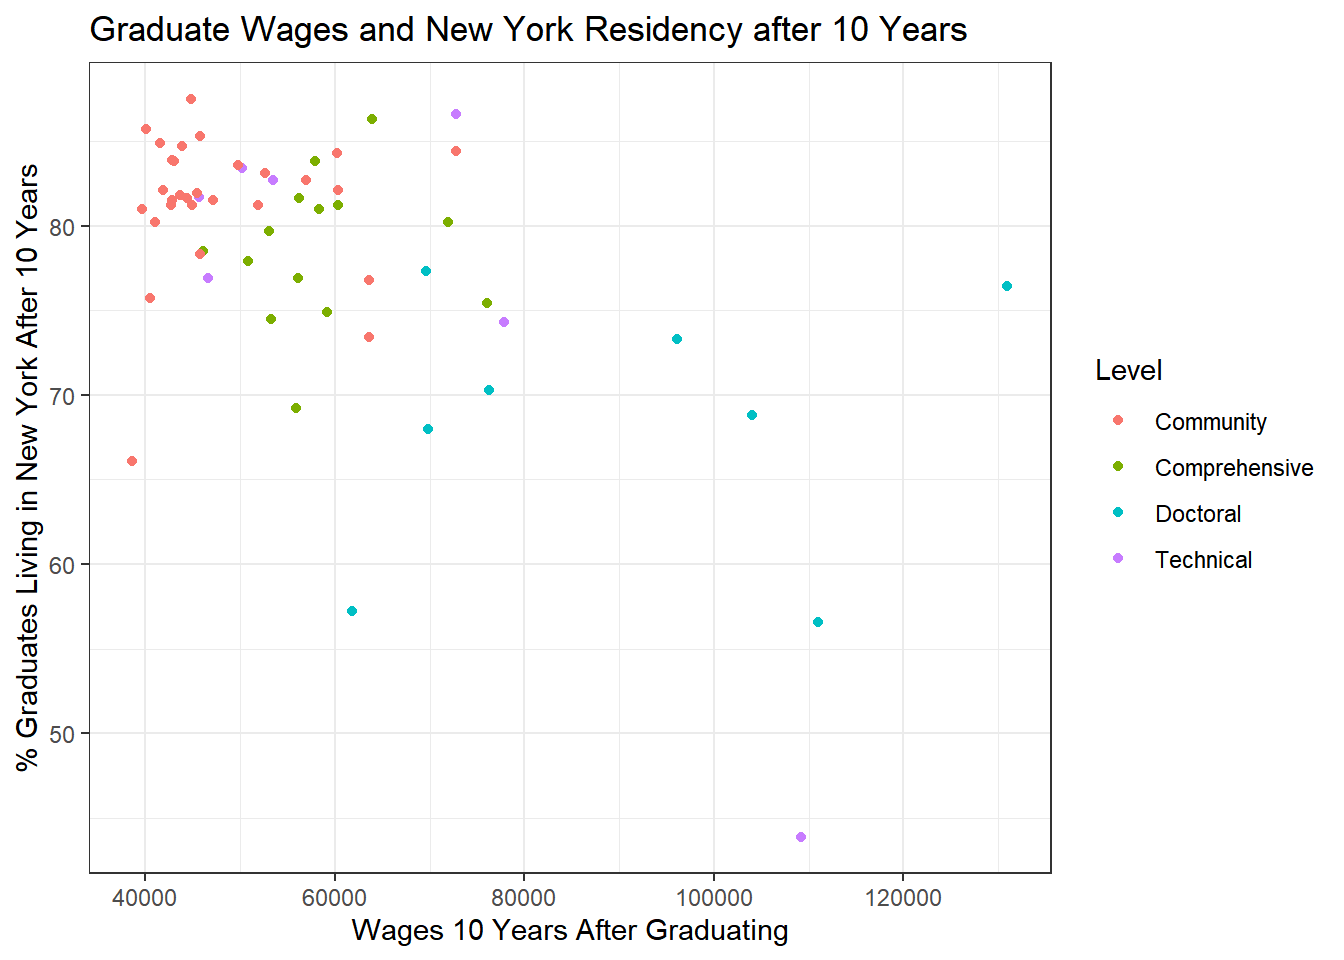
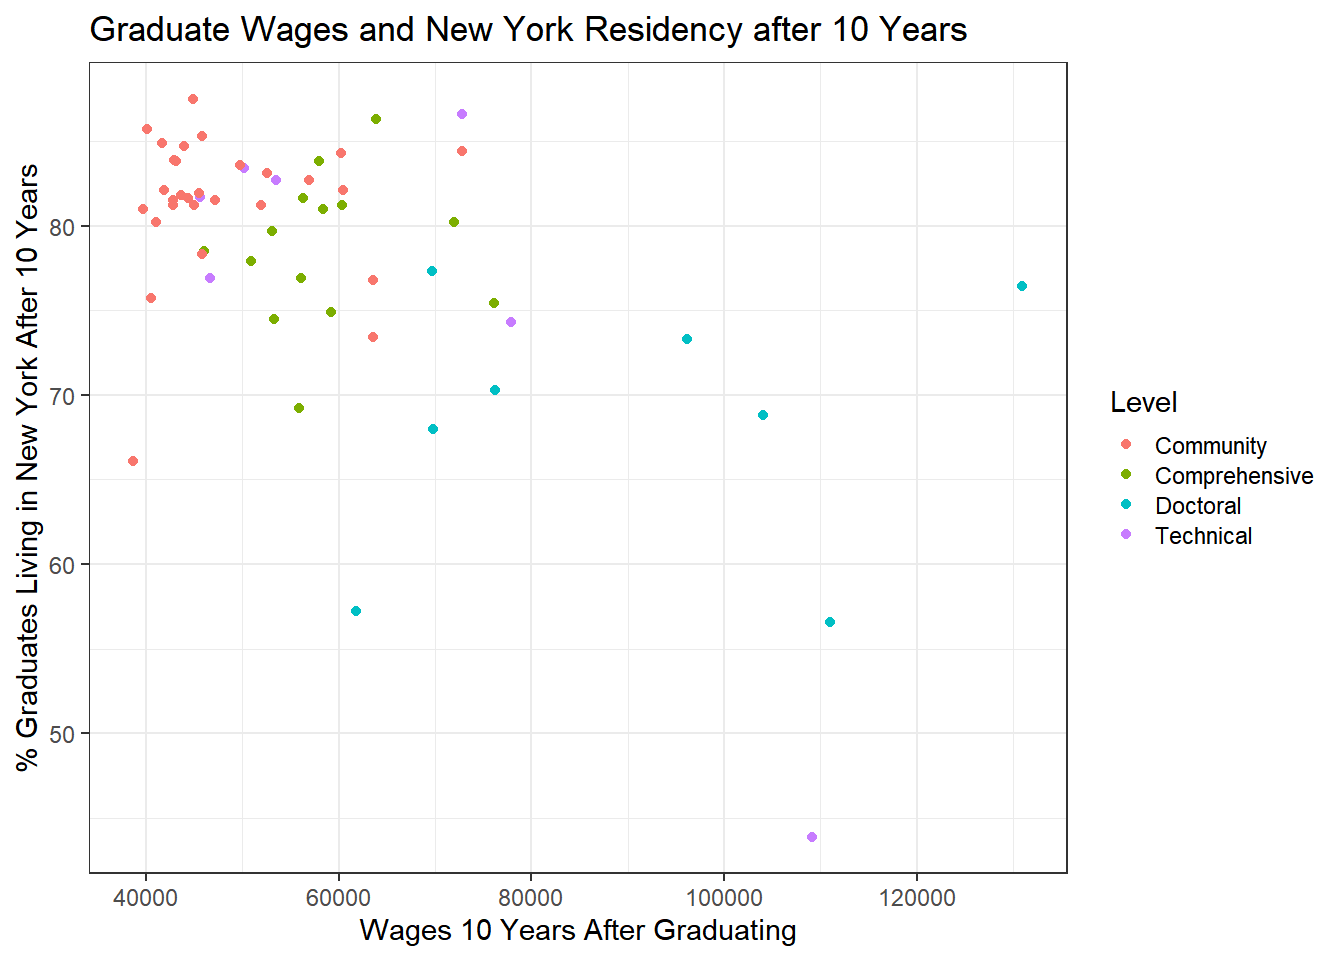
12:30pm on 12/5/19

diff --git a/docs/index.html b/docs/index.html
@@ -373,7 +373,7 @@ div.tocify {
 </div>
 <div id="methods-and-materials" class="section level2">
 <h2>Methods and Materials</h2>
-<p>This project uses data compiled from the Census Tigris package, US Census American Community survey, the Rockefeller Center, and the SUNY gradwages dashboard. To explore the various roles SUNY plays in each region, I use a series of line and bar graphs with reference lines to visually convey the different roles the SUNY system plays within each region. I also compile several tables to organize information about median wages and destination by degree level and field of study.</p>
+<p>This project uses data compiled from the Census Tigris package, US Census American Community survey, the Rockefeller Center, and the SUNY gradwages dashboard. To explore the various roles SUNY plays in each region, I use a series of line, plot, and bar graphs with reference lines to visually convey the different roles the SUNY system plays within each region and within the state.</p>
 <pre class="r"><code>#load necessary packages
 
 library(readr)
@@ -405,7 +405,7 @@ Sys.setenv(&quot;plotly_api_key&quot; = &quot;••••••••••&quo
 </div>
 <div id="part-i.-who-suny-serves" class="section level2">
 <h2>Part I. Who SUNY serves</h2>
-<p>SUNY has campuses in every part of the state. Institutions tend to congregate near one another in the state’s largest metropolitan areas: New York City and its environs, the capital region of Albany, and Buffalo in Western New York. In each of these areas, comprehensive college and community or technical colleges complement one or more doctoral universities. This means there are regional systems within the broader state system, and the institutions’ ability to coordinate their activities may have significant effects on surrounding areas.</p>
+<p>SUNY has campuses in every part of the state. Institutions tend to congregate near one another in the state’s largest metropolitan areas: New York City and its environs, the capital region of Albany, Syracuse in Central New York, and Buffalo in Western New York. In each of these areas, comprehensive college and community or technical colleges complement one or more doctoral universities. This means there are regional systems within the broader state system.</p>
 <pre class="r"><code>#load new york counties from tigris
 ny &lt;- counties(&quot;NY&quot;)
 ny &lt;- counties(&quot;NY&quot;, cb = TRUE, resolution = &quot;5m&quot;)
@@ -530,6 +530,7 @@ ggplot(wages, aes(x = Wages, y = Residents, col = Level))+
   geom_point()+
   scale_fill_brewer(palette = &quot;Paired&quot;)+
   theme_bw()+
+  theme(legend.key.size = unit(0.4, &quot;cm&quot;))+
   ggtitle(&quot;Graduate Wages and New York Residency after 10 Years&quot;)+
   labs(x = &quot;Wages 10 Years After Graduating&quot;, y = &quot;% Graduates Living in New York After 10 Years&quot;)</code></pre>
 <p><img src="index_files/figure-html/institutional%20level%20wages%20and%20retention-1.png" width="672" /> Of course, there is likely significant selection bias at work here, as students who prefer to remain close to home may opt to attend smaller local schools. However, rather than diminish SUNY’s role, such cases demonstrate the importance of providing a range of localized options to meet geographically isolated students’ needs. Higher wage premiums (versus regional median wages) at all levels of education reinforce the benefits of access.</p>
